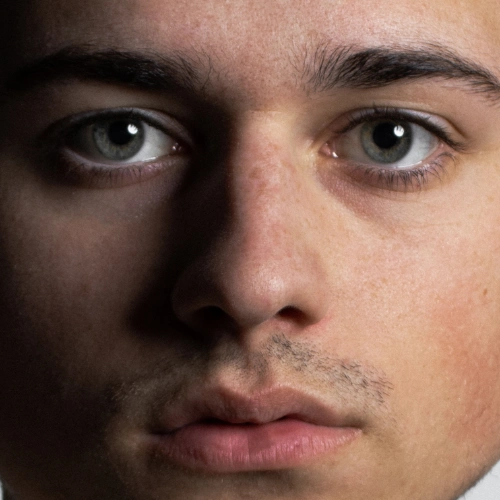
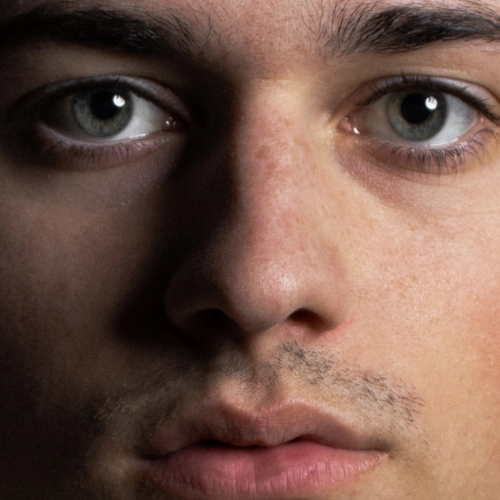
Responsiveness horizontal

diff --git a/build/static/css/main.814c6341.css b/build/static/css/main.814c6341.css
@@ -1,0 +1,2 @@
+body{-webkit-font-smoothing:antialiased;-moz-osx-font-smoothing:grayscale;font-family:-apple-system,BlinkMacSystemFont,Segoe UI,Roboto,Oxygen,Ubuntu,Cantarell,Fira Sans,Droid Sans,Helvetica Neue,sans-serif;margin:0}code{font-family:source-code-pro,Menlo,Monaco,Consolas,Courier New,monospace}@font-face{font-family:DotMatrix;font-style:normal;font-weight:400;src:url(/static/media/dotmatri.60986248129f8a5d7fb1.TTF) format("truetype")}@font-face{font-family:ArialNarrow;font-style:normal;font-weight:400;src:url(/static/media/comfortaa.886fcced57daea5944e7.ttf) format("truetype")}body,html{height:100%;margin:0;overflow-x:hidden;padding:0}.App,body,html{background-color:#eee82c}.App{align-items:center;color:#eee82c;display:flex;flex-direction:column;font-family:DotMatrix,sans-serif;height:100vh;justify-content:center}h1{font-size:2rem}.buttons,.header{display:flex}.header{align-items:flex-start;color:#102542;height:auto;justify-content:center;position:fixed;text-align:center;width:100%;z-index:2}.header h1{align-self:flex-start;font-family:DotMatrix,monospace;font-size:4rem;letter-spacing:inherit;margin-top:0;padding-top:20px}*{cursor:none!important}.footer{align-items:center;display:flex;height:56px;justify-content:center;padding-bottom:20px;z-index:1}.footer .carousel-button.prev{left:20px;position:absolute;top:50%;transform:translateY(-50%)}.footer .carousel-button.next{position:absolute;right:20px;top:50%;transform:translateY(-50%)}.footer .carousel-button.next,.footer .carousel-button.prev{align-items:center;background-color:initial;border:none;border-radius:50%;cursor:pointer;display:flex;height:90px;justify-content:center;transition:transform .1s ease-in-out;width:90px}.footer .carousel-button.next:active,.footer .carousel-button.prev:active{transform:translateY(-50%) scale(.7)}.footer .carousel-button.next img,.footer .carousel-button.prev img{border-radius:50%;box-shadow:0 0 10px #0000001a;transition:transform .1s ease-in-out}.footer .carousel-button.next:active img,.footer .carousel-button.prev:active img{transform:scale(1)}.footer .carousel-button.prev:active img{transform:scaleX(-1)}@media (max-width:768px){.footer .carousel-button.next,.footer .carousel-button.prev{display:none}.footer{padding-bottom:0}}.embla-musique-wrapper{align-items:center;display:flex;flex-direction:column}.embla-musique{display:flex;justify-content:center;width:100%}.embla-musique__container{display:flex;flex-direction:row;gap:120px;padding:0 120px;touch-action:pan-y}.carousel-info-musique{color:#102542;display:flex;font-size:1.2rem;gap:10px;justify-content:center;margin-top:20px;position:relative;text-align:center;z-index:0}.embla-musique__slide{align-items:center;aspect-ratio:1/1;border-radius:16px;box-shadow:0 0 10px #0000001a;cursor:grab;display:flex;flex:0 0 auto;flex-direction:column;justify-content:center;max-height:600px;min-width:0;transition:opacity .5s ease,width .5s ease,height .5s ease}.embla-musique__slide,.embla-musique__slide a,.embla-musique__slide img,.embla-musique__slide:active,.embla-musique__slide:hover{cursor:pointer}.embla-musique__slide:active{cursor:grabbing}.embla-musique__slide img{border-radius:16px;display:block;object-fit:contain;width:100%}.embla-musique__container:hover .embla-musique__slide:not(:hover){opacity:.5}.slide-info{align-items:center;display:flex;justify-content:space-between;margin-top:.1rem;width:100%}.embla-musique__slide:hover .slide-title{opacity:1}@media (max-width:768px){.embla-musique__slide{aspect-ratio:1/1;max-width:300px;width:80px}.embla-musique__container:hover .embla-musique__slide:not(:hover){opacity:1}.embla-musique__slide:hover .slide-title{opacity:0}}@media (min-width:800px) and (max-width:1200px){.embla-musique__slide{aspect-ratio:1/1;max-width:500px;width:500px}}@media (max-width:768px){.embla-musique__slide{aspect-ratio:1/1;border-radius:16px;max-height:40vh;width:auto}.embla-musique__container{gap:60px;padding:0 60px}.embla-musique__container:hover .embla-musique__slide:not(:hover){opacity:1}.embla-musique__slide:hover .slide-title{opacity:0}}@media (min-width:769px) and (max-width:1200px){.embla-musique__slide{aspect-ratio:1/1;border-radius:16px;max-height:40vh;width:auto}.embla-musique__container{gap:60px;padding:0 60px}}.embla{overflow:hidden}.embla__container{display:flex;gap:120px;padding:0 120px;-webkit-user-select:none;user-select:none}.carousel-info-video{color:#102542;display:flex;font-size:1.2rem;gap:10px;justify-content:center;margin-top:20px;position:relative;text-align:center;z-index:10}.embla__slide{flex:0 0 auto;max-height:620px;min-width:0;opacity:1;transition:opacity .3s ease}.embla__container:hover .embla__slide:not(:hover){opacity:.5}.embla__slide video{border-radius:16px;display:block;max-height:600px;max-width:100%;outline:none;pointer-events:none;transition:all .5s ease;-webkit-user-select:none;user-select:none}.slide-title{align-self:flex-start;font-size:1.1rem;transition:opacity .3s ease}.slide-title,.slide-year{color:#102542;margin:0;opacity:0}.slide-year{align-self:flex-end;font-size:1rem}.embla__slide:hover .slide-title,.embla__slide:hover .slide-year{opacity:1}@media (max-width:768px){.embla__slide video{border-radius:16px;max-height:25vh;pointer-events:none;width:auto}.embla__container{gap:60px;padding:0 60px}.embla__container:hover .embla__slide:not(:hover){opacity:1}.embla__slide:hover .slide-title,.embla__slide:hover .slide-year{opacity:0}}@media (min-width:769px) and (max-width:1200px){.embla__slide video{border-radius:16px;max-height:40vh;pointer-events:none;width:auto}.embla__container{gap:60px;padding:0 60px}}.footer{bottom:20px;position:fixed;text-align:center;width:100%}.toggle-container{background:#102542;border-radius:25px;box-shadow:0 2px 5px #0000004d;cursor:pointer;display:inline-flex;height:44px;position:relative;width:300px}.toggle-thumb{background:#adc116;border-radius:25px;height:40px;position:absolute;top:2px;transition:left .3s;width:148px}.toggle-option{color:#fff;flex:1 1;font-family:ArialNarrow,monospace;font-size:1.2rem;letter-spacing:inherit;line-height:43px;text-align:center;-webkit-user-select:none;user-select:none;z-index:1}.toggle-option.active{color:#fff}
+/*# sourceMappingURL=main.814c6341.css.map*/

diff --git a/build/index.html b/build/index.html
@@ -1,1 +1,1 @@
-<!doctype html><html lang="en"><head><meta charset="utf-8"/><link rel="icon" href="/favicon.ico"/><meta name="viewport" content="width=device-width,initial-scale=1"/><meta name="theme-color" content="#000000"/><meta name="description" content="Web site created using create-react-app"/><link rel="apple-touch-icon" href="/logo192.png"/><link rel="manifest" href="/manifest.json"/><title>Hugo Borel</title><meta name="description" content="Portfolio de Hugo Borel — projets, musique et vidéos."/><meta name="author" content="Hugo Borel"/><meta property="og:title" content="Hugo Borel"/><meta property="og:description" content="Découvre mes projets, musique et vidéos."/><meta property="og:type" content="website"/><meta property="og:image" content="/moi.webp"/><script defer="defer" src="/static/js/main.72e92b7a.js"></script><link href="/static/css/main.02236d87.css" rel="stylesheet"></head><body><noscript>You need to enable JavaScript to run this app.</noscript><div id="root"></div></body></html>
+<!doctype html><html lang="en"><head><meta charset="utf-8"/><link rel="icon" href="/favicon.ico"/><meta name="viewport" content="width=device-width,initial-scale=1"/><meta name="theme-color" content="#000000"/><meta name="description" content="Web site created using create-react-app"/><link rel="apple-touch-icon" href="/logo192.png"/><link rel="manifest" href="/manifest.json"/><title>Hugo Borel</title><meta name="description" content="Portfolio de Hugo Borel — projets, musique et vidéos."/><meta name="author" content="Hugo Borel"/><meta property="og:title" content="Hugo Borel"/><meta property="og:description" content="Découvre mes projets, musique et vidéos."/><meta property="og:type" content="website"/><meta property="og:image" content="/moi.webp"/><script defer="defer" src="/static/js/main.72e92b7a.js"></script><link href="/static/css/main.814c6341.css" rel="stylesheet"></head><body><noscript>You need to enable JavaScript to run this app.</noscript><div id="root"></div></body></html>

diff --git a/src/musique.css b/src/musique.css
@@ -36,8 +36,8 @@
 .embla-musique__slide {
   flex: 0 0 auto;
   min-width: 0;
-  max-height: 600px;
-  aspect-ratio: 1 / 1; /* always square */
+  max-height: 60vh; /* ✅ Appliqué partout */
+  aspect-ratio: 1 / 1;
   display: flex;
   flex-direction: column;
   justify-content: center;
